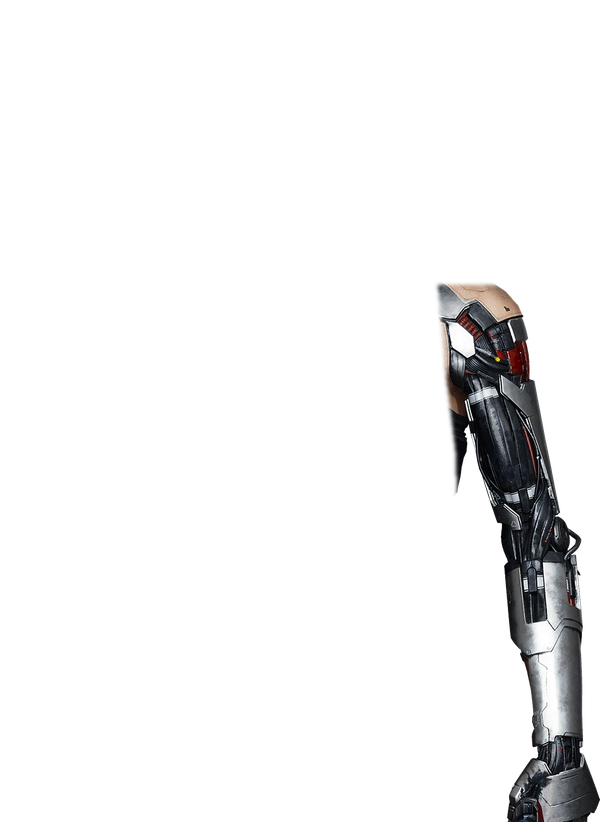
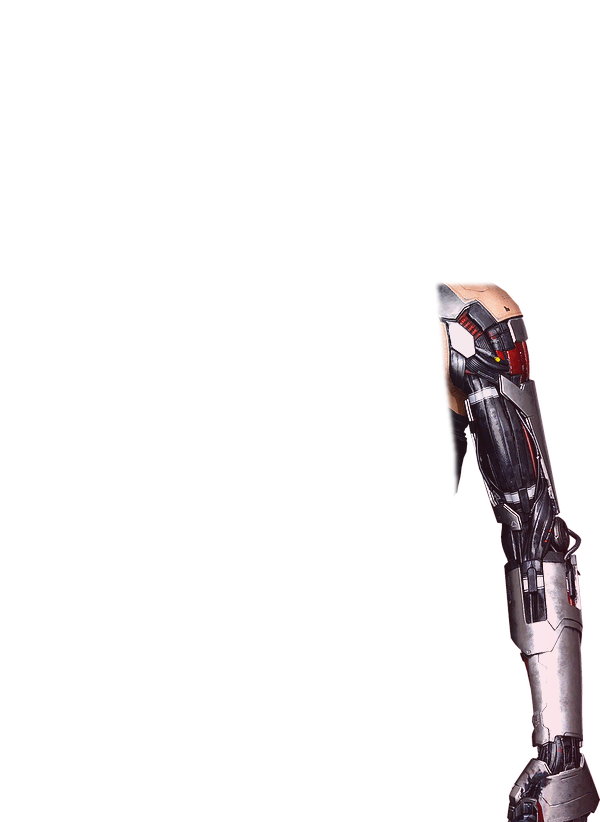
feat(stage-8): upgrade to 10-layer Edgerunners cel-shaded skeletal rig with separate legs, hair, and glasses glint

Changed region(s): [[0.72, 0.3345, 1.0, 1.0]]

diff --git a/backend/build_skeletal_rig.py b/backend/build_skeletal_rig.py
@@ -1,18 +1,23 @@
 """
-Генератор бесшовного скелетного 2.5D-рига Джонни Сильверхенда (Live2D / Spine стиль) из 3D-рендера Cyberpunk 2077.
-Разбивает рендер (600x822) на независимые анатомические слои без внутренних швов:
-  - rig_lower.png     (пояс и кожаные штаны)
-  - rig_torso.png     (торс в бронежилете Samurai, шея и плечевые суставы)
-  - rig_arm_right.png (правая рука с дымящимся биочипом/сигаретой — пивот (186, 395))
-  - rig_arm_left.png  (левая серебряная бионическая рука — пивот (452, 335))
-  - rig_head.png      (голова в красных очках-авиаторах и волосы — пивот (315, 210))
-  - rig_jaw.png       (нижняя челюсть и борода для Lip-Sync — двигается синхронно с голосом)
-  - rig_guitar.png    (электрогитара Deluze Orphean из Cyberpunk 2077)
+Генератор 10-слойного скелетного 2.5D-рига Джонни Сильверхенда в стиле Capri (Edgerunners / capri-desktop).
+Превращает 3D-рендер Cyberpunk 2077 в контрастный аниме/киберпанк-риг (Cel-Shaded + неоновый контур Relic)
+и разделяет модель (600x822) на независимые конечности для 60 FPS физики:
+  - rig_hair_back.png     (задние пряди длинных волос — развеваются с инерцией при движении и ветре)
+  - rig_leg_left.png      (левая нога в ботинке — свешивается с рамки окна и качается как у Капри)
+  - rig_leg_right.png     (правая нога в ботинке — качается в противофазе и болтается при перетаскивании)
+  - rig_lower.png         (таз и ремень — точка опоры на верхней границе активного окна Windows)
+  - rig_torso.png         (торс в бронежилете Samurai, шея и плечи)
+  - rig_arm_right.png     (правая рука с дымящейся сигаретой — пивот (190, 335))
+  - rig_arm_left.png      (левая серебряная бионическая рука — пивот (452, 335))
+  - rig_head.png          (голова и очки-авиаторы — пивот (315, 210))
+  - rig_glasses_glint.png (неоновый блик авиаторов и моргание/свечение глаз энграммы)
+  - rig_jaw.png           (нижняя челюсть и борода для слогового Lip-Sync)
+  - rig_guitar.png        (электрогитара Deluze Orphean из Cyberpunk 2077)
 """
 
 from pathlib import Path
 import numpy as np
-from PIL import Image, ImageDraw, ImageFilter
+from PIL import Image, ImageDraw, ImageEnhance, ImageFilter
 
 ROOT_DIR = Path(__file__).resolve().parent.parent
 RAW_DIR = ROOT_DIR / "assets" / "raw_renders"
@@ -20,6 +25,48 @@ RIG_DIR = ROOT_DIR / "assets" / "rig"
 RIG_DIR.mkdir(parents=True, exist_ok=True)
 
 W, H = 600, 822
+
+
+def apply_edgerunners_cel_shading(src: Image.Image) -> Image.Image:
+    """
+    Придаёт 3D-рендеру выразительный контрастный вид в духе Cyberpunk: Edgerunners / Capri:
+    усиливает контурный свет (cyan/crimson rim light), подчёркивает тени и делает силуэт чётким на любом фоне.
+    """
+    rgba = src.convert("RGBA")
+    r, g, b, a = rgba.split()
+    rgb = Image.merge("RGB", (r, g, b))
+
+    # Повышаем локальный контраст и насыщенность (аниме-стилизация)
+    rgb = ImageEnhance.Contrast(rgb).enhance(1.22)
+    rgb = ImageEnhance.Color(rgb).enhance(1.18)
+    rgb = ImageEnhance.Sharpness(rgb).enhance(1.35)
+
+    # Лёгкая постеризация полутонов в сочетании с оригиналом (эффект Cel-Shading без потери деталей лица)
+    arr_orig = np.array(rgb, dtype=np.float32)
+    quantized = np.floor(arr_orig / 24.0) * 24.0 + 12.0
+    blended = np.clip(arr_orig * 0.72 + quantized * 0.28, 0, 255).astype(np.uint8)
+
+    # Добавляем тонкий неоновый контур Relic (#00F0FF слева, #FF2A55 справа, как в ролике с Капри)
+    alpha_np = np.array(a, dtype=np.float32)
+    edge_outer = np.array(a.filter(ImageFilter.MaxFilter(5)), dtype=np.float32)
+    rim_mask = np.clip((edge_outer - alpha_np * 0.75) / 255.0, 0.0, 1.0)
+
+    h, w = alpha_np.shape
+    x_grad = np.linspace(0.0, 1.0, w, dtype=np.float32)[None, :]
+    # Слева — голубой неон Relic (0, 240, 255), справа — малиново-жёлтый акцент Edgerunners (255, 45, 95)
+    rim_r = (1.0 - x_grad) * 0.0 + x_grad * 255.0
+    rim_g = (1.0 - x_grad) * 240.0 + x_grad * 65.0
+    rim_b = (1.0 - x_grad) * 255.0 + x_grad * 110.0
+
+    for c_idx, rim_c in enumerate((rim_r, rim_g, rim_b)):
+        blended[:, :, c_idx] = np.clip(
+            blended[:, :, c_idx] * (1.0 - rim_mask * 0.55) + rim_c * (rim_mask * 0.55),
+            0, 255
+        ).astype(np.uint8)
+
+    out = Image.fromarray(blended, mode="RGB").convert("RGBA")
+    out.putalpha(a)
+    return out
 
 
 def polygon_mask(size: tuple[int, int], points: list[tuple[int, int]], blur: float = 2.0) -> Image.Image:
@@ -40,64 +87,113 @@ def extract_layer(src: Image.Image, mask: Image.Image) -> Image.Image:
     return rgba
 
 
+def create_hair_back_layer(src: Image.Image) -> Image.Image:
+    """Выделяет боковые и задние пряди длинных волос Джонни для независимого покачивания на ветру."""
+    hair_poly = [
+        (195, 35), (440, 35), (452, 238),
+        (415, 252), (370, 220), (255, 220),
+        (210, 252), (185, 235)
+    ]
+    mask = polygon_mask((W, H), hair_poly, blur=3.0)
+    layer = extract_layer(src, mask)
+    # Слегка затемняем задний слой волос для глубины 2.5D параллакса
+    r, g, b, a = layer.split()
+    rgb = ImageEnhance.Brightness(Image.merge("RGB", (r, g, b))).enhance(0.82)
+    out = rgb.convert("RGBA")
+    out.putalpha(a)
+    return out
+
+
+def create_glasses_glint_layer() -> Image.Image:
+    """Создаёт слой неонового блика на красных очках-авиаторах и свечения глаз энграммы (для моргания/реакций)."""
+    img = Image.new("RGBA", (W, H), (0, 0, 0, 0))
+    d = ImageDraw.Draw(img)
+
+    # Левая и правая линзы авиаторов Джонни на холсте 600x822
+    # Косые белые/голубые блики в стиле аниме Edgerunners
+    d.polygon([(262, 106), (276, 106), (260, 134), (248, 134)], fill=(0, 240, 255, 195))
+    d.polygon([(334, 105), (348, 105), (332, 133), (320, 133)], fill=(0, 240, 255, 195))
+
+    # Тонкие жёлтые кибер-дужки свечения поверх оправы
+    d.line([(244, 102), (300, 104)], fill=(252, 238, 9, 210), width=2)
+    d.line([(314, 104), (368, 102)], fill=(252, 238, 9, 210), width=2)
+
+    return img.filter(ImageFilter.GaussianBlur(0.8))
+
+
 def build_rig() -> None:
-    src = Image.open(RAW_DIR / "db_2077.png").convert("RGBA").resize((W, H), Image.Resampling.LANCZOS)
+    raw_path = RAW_DIR / "db_2077.png"
+    if not raw_path.exists():
+        raise FileNotFoundError(f"Не найден исходный рендер: {raw_path}")
+
+    raw_src = Image.open(raw_path).convert("RGBA").resize((W, H), Image.Resampling.LANCZOS)
+    src = apply_edgerunners_cel_shading(raw_src)
 
     # 1. Правая рука с чипом/сигаретой (плечевой сустав: пивот x=190, y=335)
     arm_right_poly = [
         (0, 240), (208, 295), (200, 355), (186, 430),
         (182, 520), (170, 595), (0, 595)
     ]
-    mask_arm_r = polygon_mask((W, H), arm_right_poly, blur=2.2)
-    rig_arm_right = extract_layer(src, mask_arm_r)
+    rig_arm_right = extract_layer(src, polygon_mask((W, H), arm_right_poly, blur=2.2))
 
     # 2. Левая серебряная бионическая рука (пивот кибер-плеча: x=452, y=335)
     arm_left_poly = [
         (438, 285), (600, 285), (600, 822),
         (465, 822), (456, 455), (446, 375)
     ]
-    mask_arm_l = polygon_mask((W, H), arm_left_poly, blur=1.8)
-    rig_arm_left = extract_layer(src, mask_arm_l)
+    rig_arm_left = extract_layer(src, polygon_mask((W, H), arm_left_poly, blur=1.8))
 
-    # 3. Голова, очки-авиаторы и длинные волосы (пивот шеи: x=315, y=210)
+    # 3. Задние пряди волос (развеваются независимо от головы)
+    rig_hair_back = create_hair_back_layer(src)
+
+    # 4. Голова, очки-авиаторы и основные волосы (пивот шеи: x=315, y=210)
     head_poly = [
         (190, 0), (450, 0), (450, 224),
         (368, 232), (315, 228), (252, 230), (190, 222)
     ]
-    mask_head = polygon_mask((W, H), head_poly, blur=2.5)
-    rig_head = extract_layer(src, mask_head)
+    rig_head = extract_layer(src, polygon_mask((W, H), head_poly, blur=2.5))
 
-    # 4. Нижняя челюсть / борода для Lip-Sync (открывает рот во время речи)
+    # 5. Блик очков-авиаторов (моргание и кибер-свечение)
+    rig_glasses_glint = create_glasses_glint_layer()
+
+    # 6. Нижняя челюсть / борода для Lip-Sync (открывает рот во время речи)
     jaw_poly = [
         (278, 166), (334, 164), (346, 184),
         (342, 208), (308, 214), (278, 206), (270, 184)
     ]
-    mask_jaw = polygon_mask((W, H), jaw_poly, blur=1.8)
-    rig_jaw = extract_layer(src, mask_jaw)
+    rig_jaw = extract_layer(src, polygon_mask((W, H), jaw_poly, blur=1.8))
 
-    # Мягкая тень полости рта на слое головы (видна только когда rig_jaw опускается вниз)
+    # Мягкая тень полости рта на слое головы (видна когда rig_jaw опускается вниз)
     mouth_shadow = Image.new("RGBA", (W, H), (0, 0, 0, 0))
     ms_draw = ImageDraw.Draw(mouth_shadow)
     ms_draw.ellipse((286, 164, 324, 172), fill=(26, 12, 15, 220))
     mouth_shadow = mouth_shadow.filter(ImageFilter.GaussianBlur(1.2))
     rig_head = Image.alpha_composite(rig_head, mouth_shadow)
 
-    # 5. Нижняя часть тела (ремень и кожаные штаны: с запасом вверх до y=595 под дыхание торса)
-    lower_poly = [
-        (150, 595), (455, 595), (465, 822), (150, 822)
+    # 7. Пояс / таз (точка посадки на верхний край окна: y=585..665)
+    pelvis_poly = [
+        (165, 585), (450, 585), (455, 668), (165, 668)
     ]
-    mask_lower = polygon_mask((W, H), lower_poly, blur=2.0)
-    rig_lower = extract_layer(src, mask_lower)
+    rig_lower = extract_layer(src, polygon_mask((W, H), pelvis_poly, blur=2.0))
 
-    # 6. Торс (бронежилет Samurai, шея с запасом до y=180 и плечи без дублирования рук)
+    # 8. Левая и правая ноги отдельно (пивот на уровне бедра/колена y=650 — качаются над заголовком окна!)
+    leg_left_poly = [
+        (150, 645), (312, 645), (312, 822), (150, 822)
+    ]
+    leg_right_poly = [
+        (308, 645), (470, 645), (470, 822), (308, 822)
+    ]
+    rig_leg_left = extract_layer(src, polygon_mask((W, H), leg_left_poly, blur=2.0))
+    rig_leg_right = extract_layer(src, polygon_mask((W, H), leg_right_poly, blur=2.0))
+
+    # 9. Торс (бронежилет Samurai, шея с запасом до y=180 и плечи)
     torso_poly = [
         (225, 180), (395, 180), (452, 285), (456, 425),
-        (448, 635), (176, 635), (186, 495), (186, 365), (172, 290)
+        (448, 620), (176, 620), (186, 495), (186, 365), (172, 290)
     ]
-    mask_torso = polygon_mask((W, H), torso_poly, blur=2.2)
-    rig_torso = extract_layer(src, mask_torso)
+    rig_torso = extract_layer(src, polygon_mask((W, H), torso_poly, blur=2.2))
 
-    # 7. Электрогитара Deluze Orphean
+    # 10. Электрогитара Deluze Orphean
     guitar_src = Image.open(RAW_DIR / "Silverhand_guitar_render.png").convert("RGBA")
     gw, gh = guitar_src.size
     front_g = guitar_src.crop((gw // 2, 0, gw, gh))
@@ -113,17 +209,21 @@ def build_rig() -> None:
     rig_guitar.paste(rot_g, (gx, gy), rot_g)
 
     layers = {
+        "rig_hair_back.png": rig_hair_back,
+        "rig_leg_left.png": rig_leg_left,
+        "rig_leg_right.png": rig_leg_right,
         "rig_lower.png": rig_lower,
         "rig_torso.png": rig_torso,
         "rig_arm_right.png": rig_arm_right,
         "rig_arm_left.png": rig_arm_left,
         "rig_head.png": rig_head,
+        "rig_glasses_glint.png": rig_glasses_glint,
         "rig_jaw.png": rig_jaw,
         "rig_guitar.png": rig_guitar,
     }
     for filename, img in layers.items():
         img.save(RIG_DIR / filename, format="PNG")
-        print(f"[OK] Saved seamless rig layer: {RIG_DIR / filename}")
+        print(f"[OK] Saved Capri-style rig layer: {RIG_DIR / filename}")
 
 
 if __name__ == "__main__":
